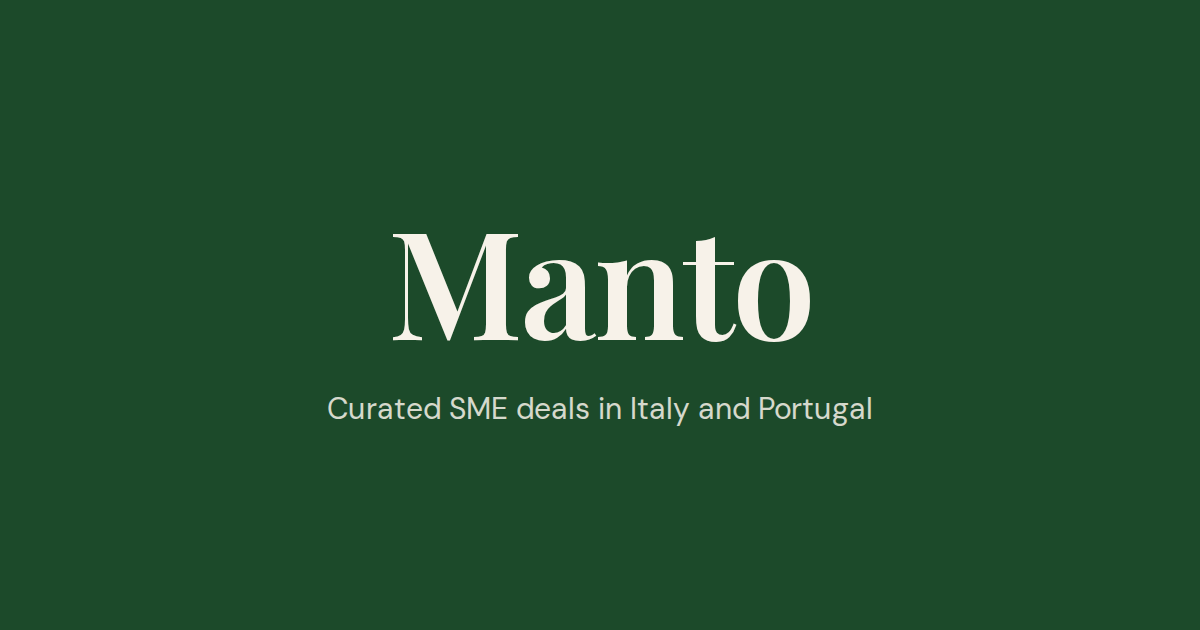
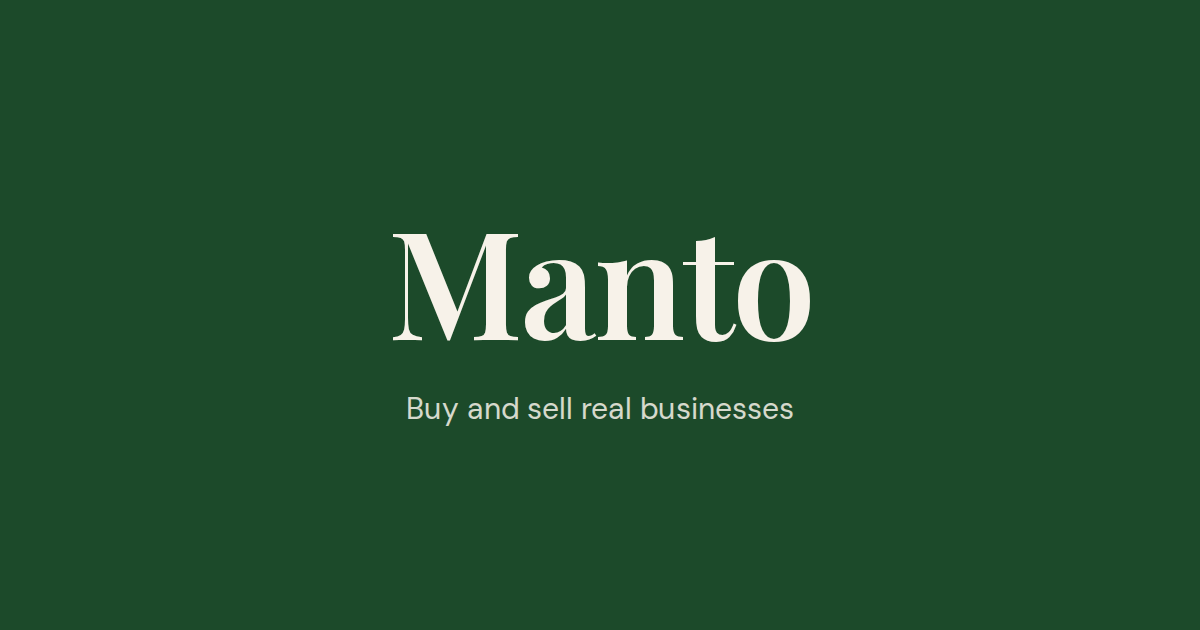
Update link preview tagline and site description
Claude-Session: https://claude.ai/code/session_01MsTSdLeNKP3woExDAVtKK4

Changed region(s): [[0.2775, 0.6333, 0.74, 0.6937]]

diff --git a/app/[locale]/layout.tsx b/app/[locale]/layout.tsx
@@ -33,7 +33,7 @@ export const metadata: Metadata = {
     template: '%s | Manto',
   },
   description:
-    'Curated SME deals in Italy and Portugal. Browse structured deal pages, review financials, and connect with business owners looking to sell.',
+    'Buy and sell real businesses in Italy and Portugal, with curated deals and clear financials.',
   openGraph: {
     siteName: 'Manto',
     type: 'website',
